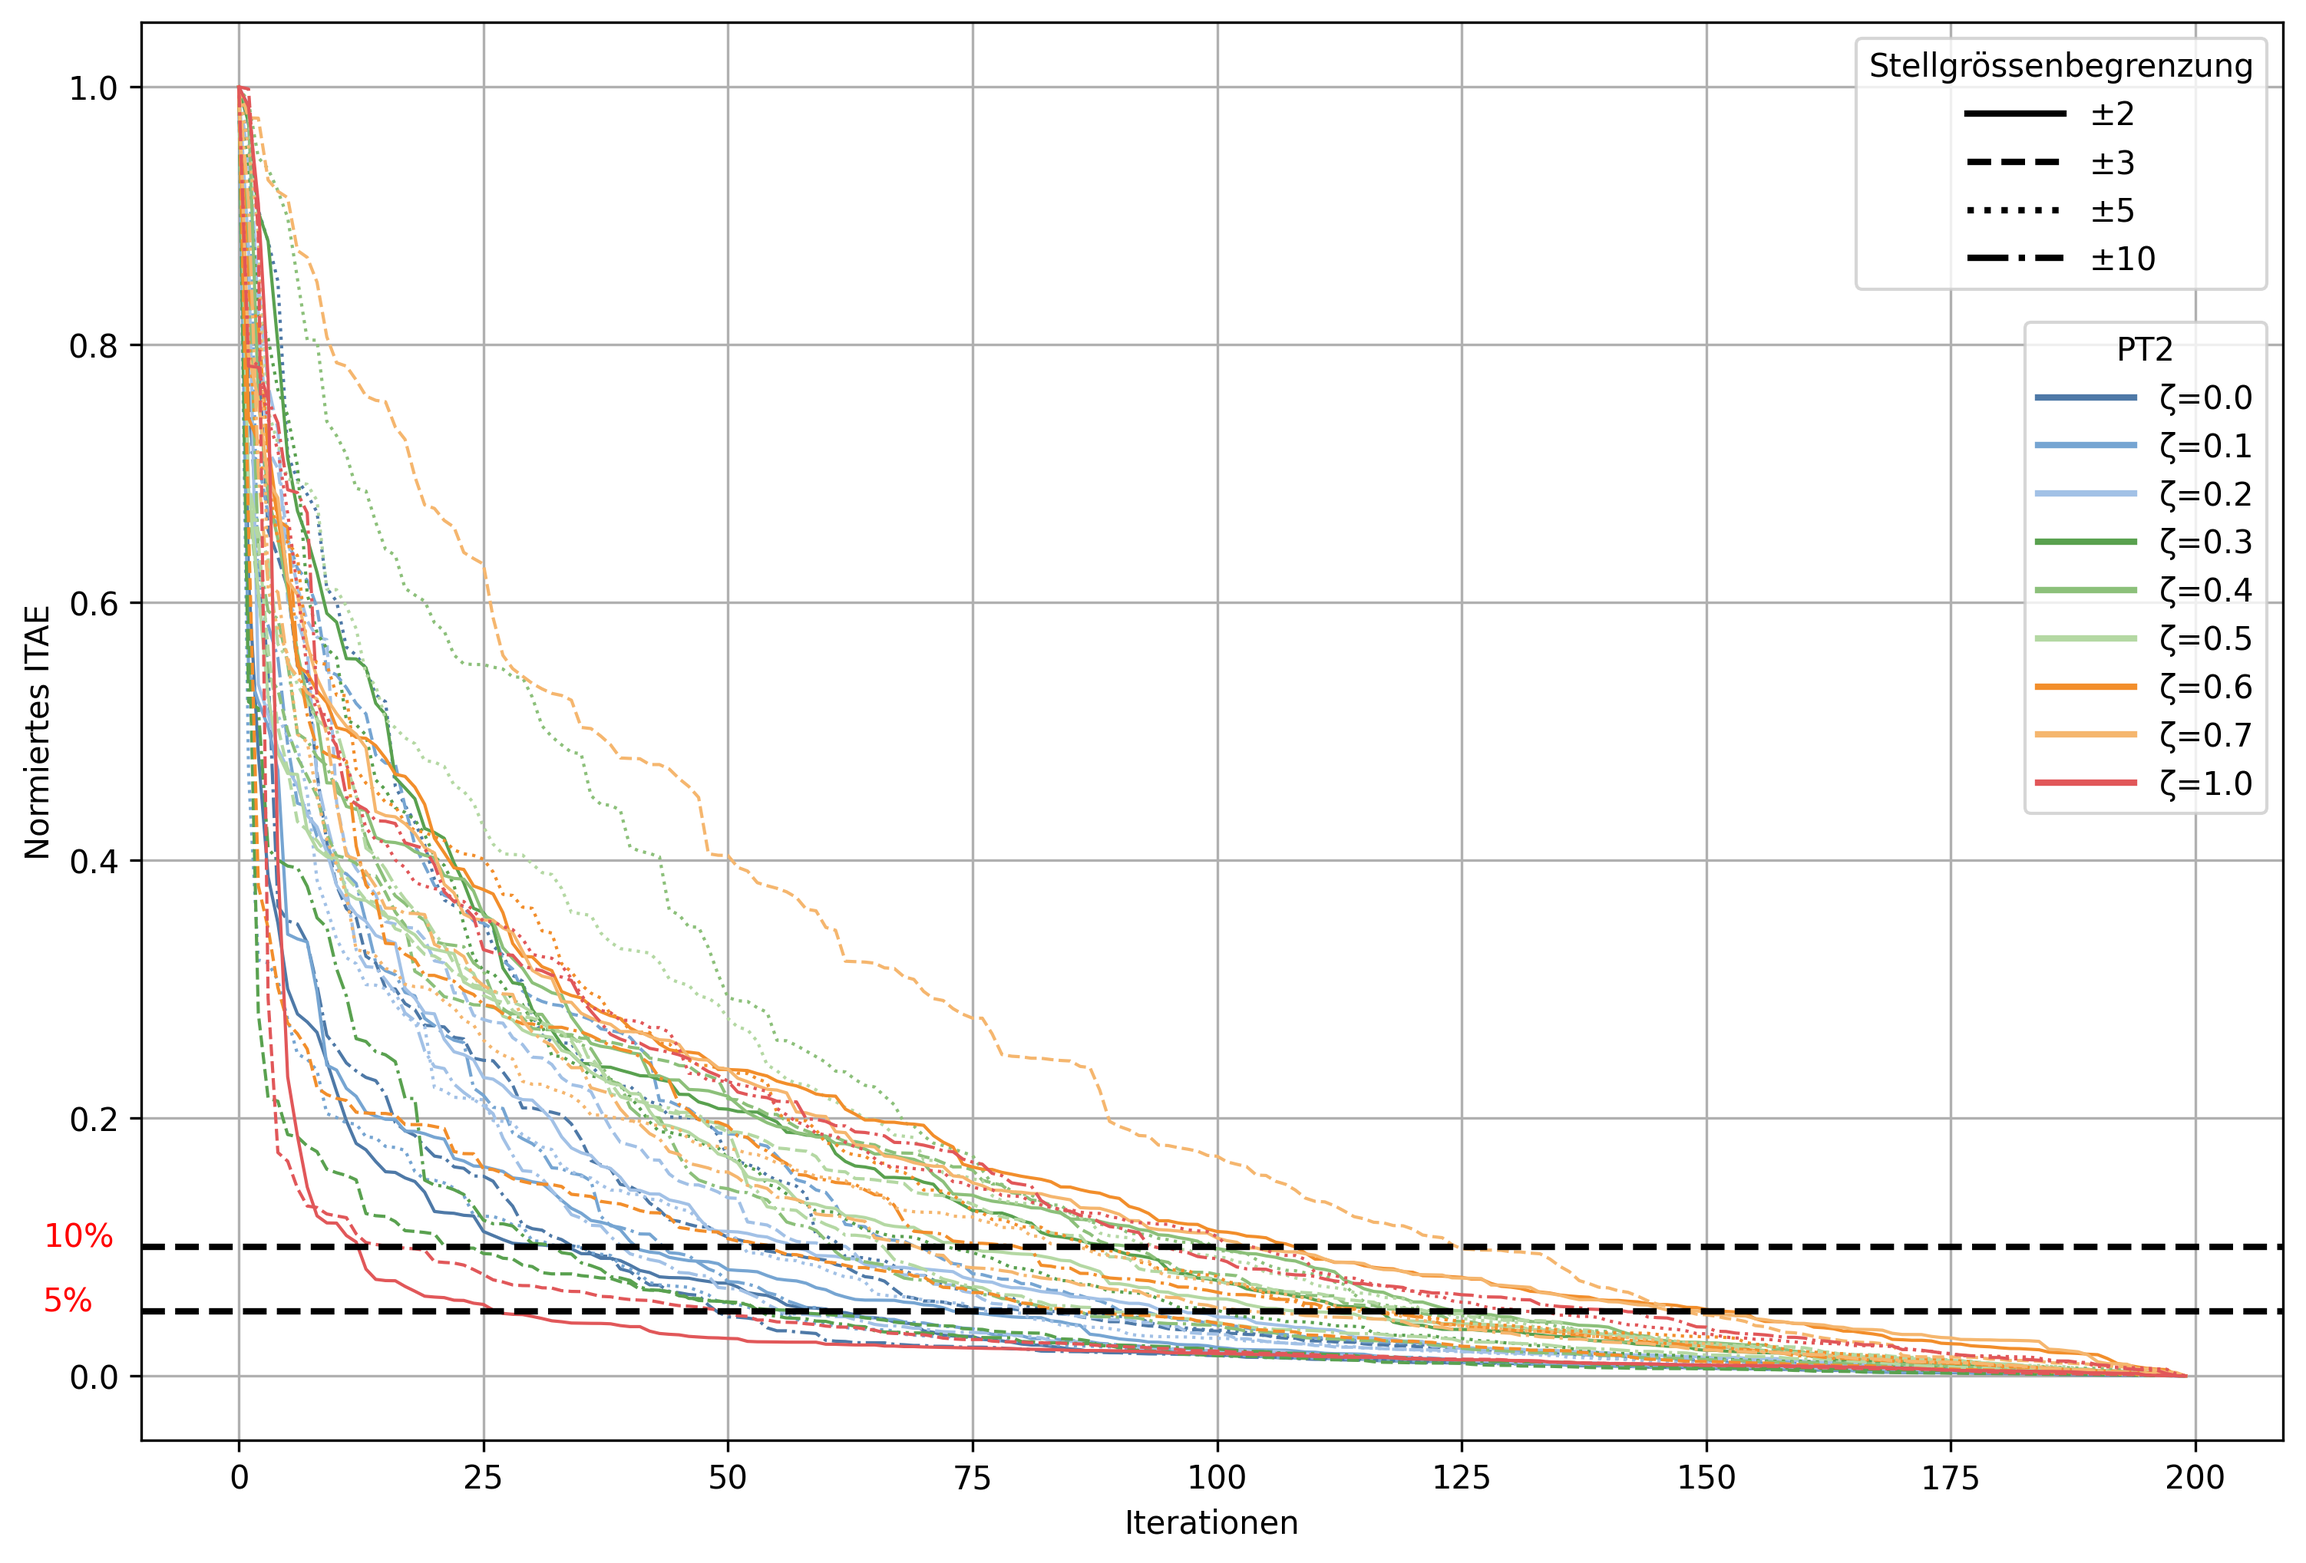
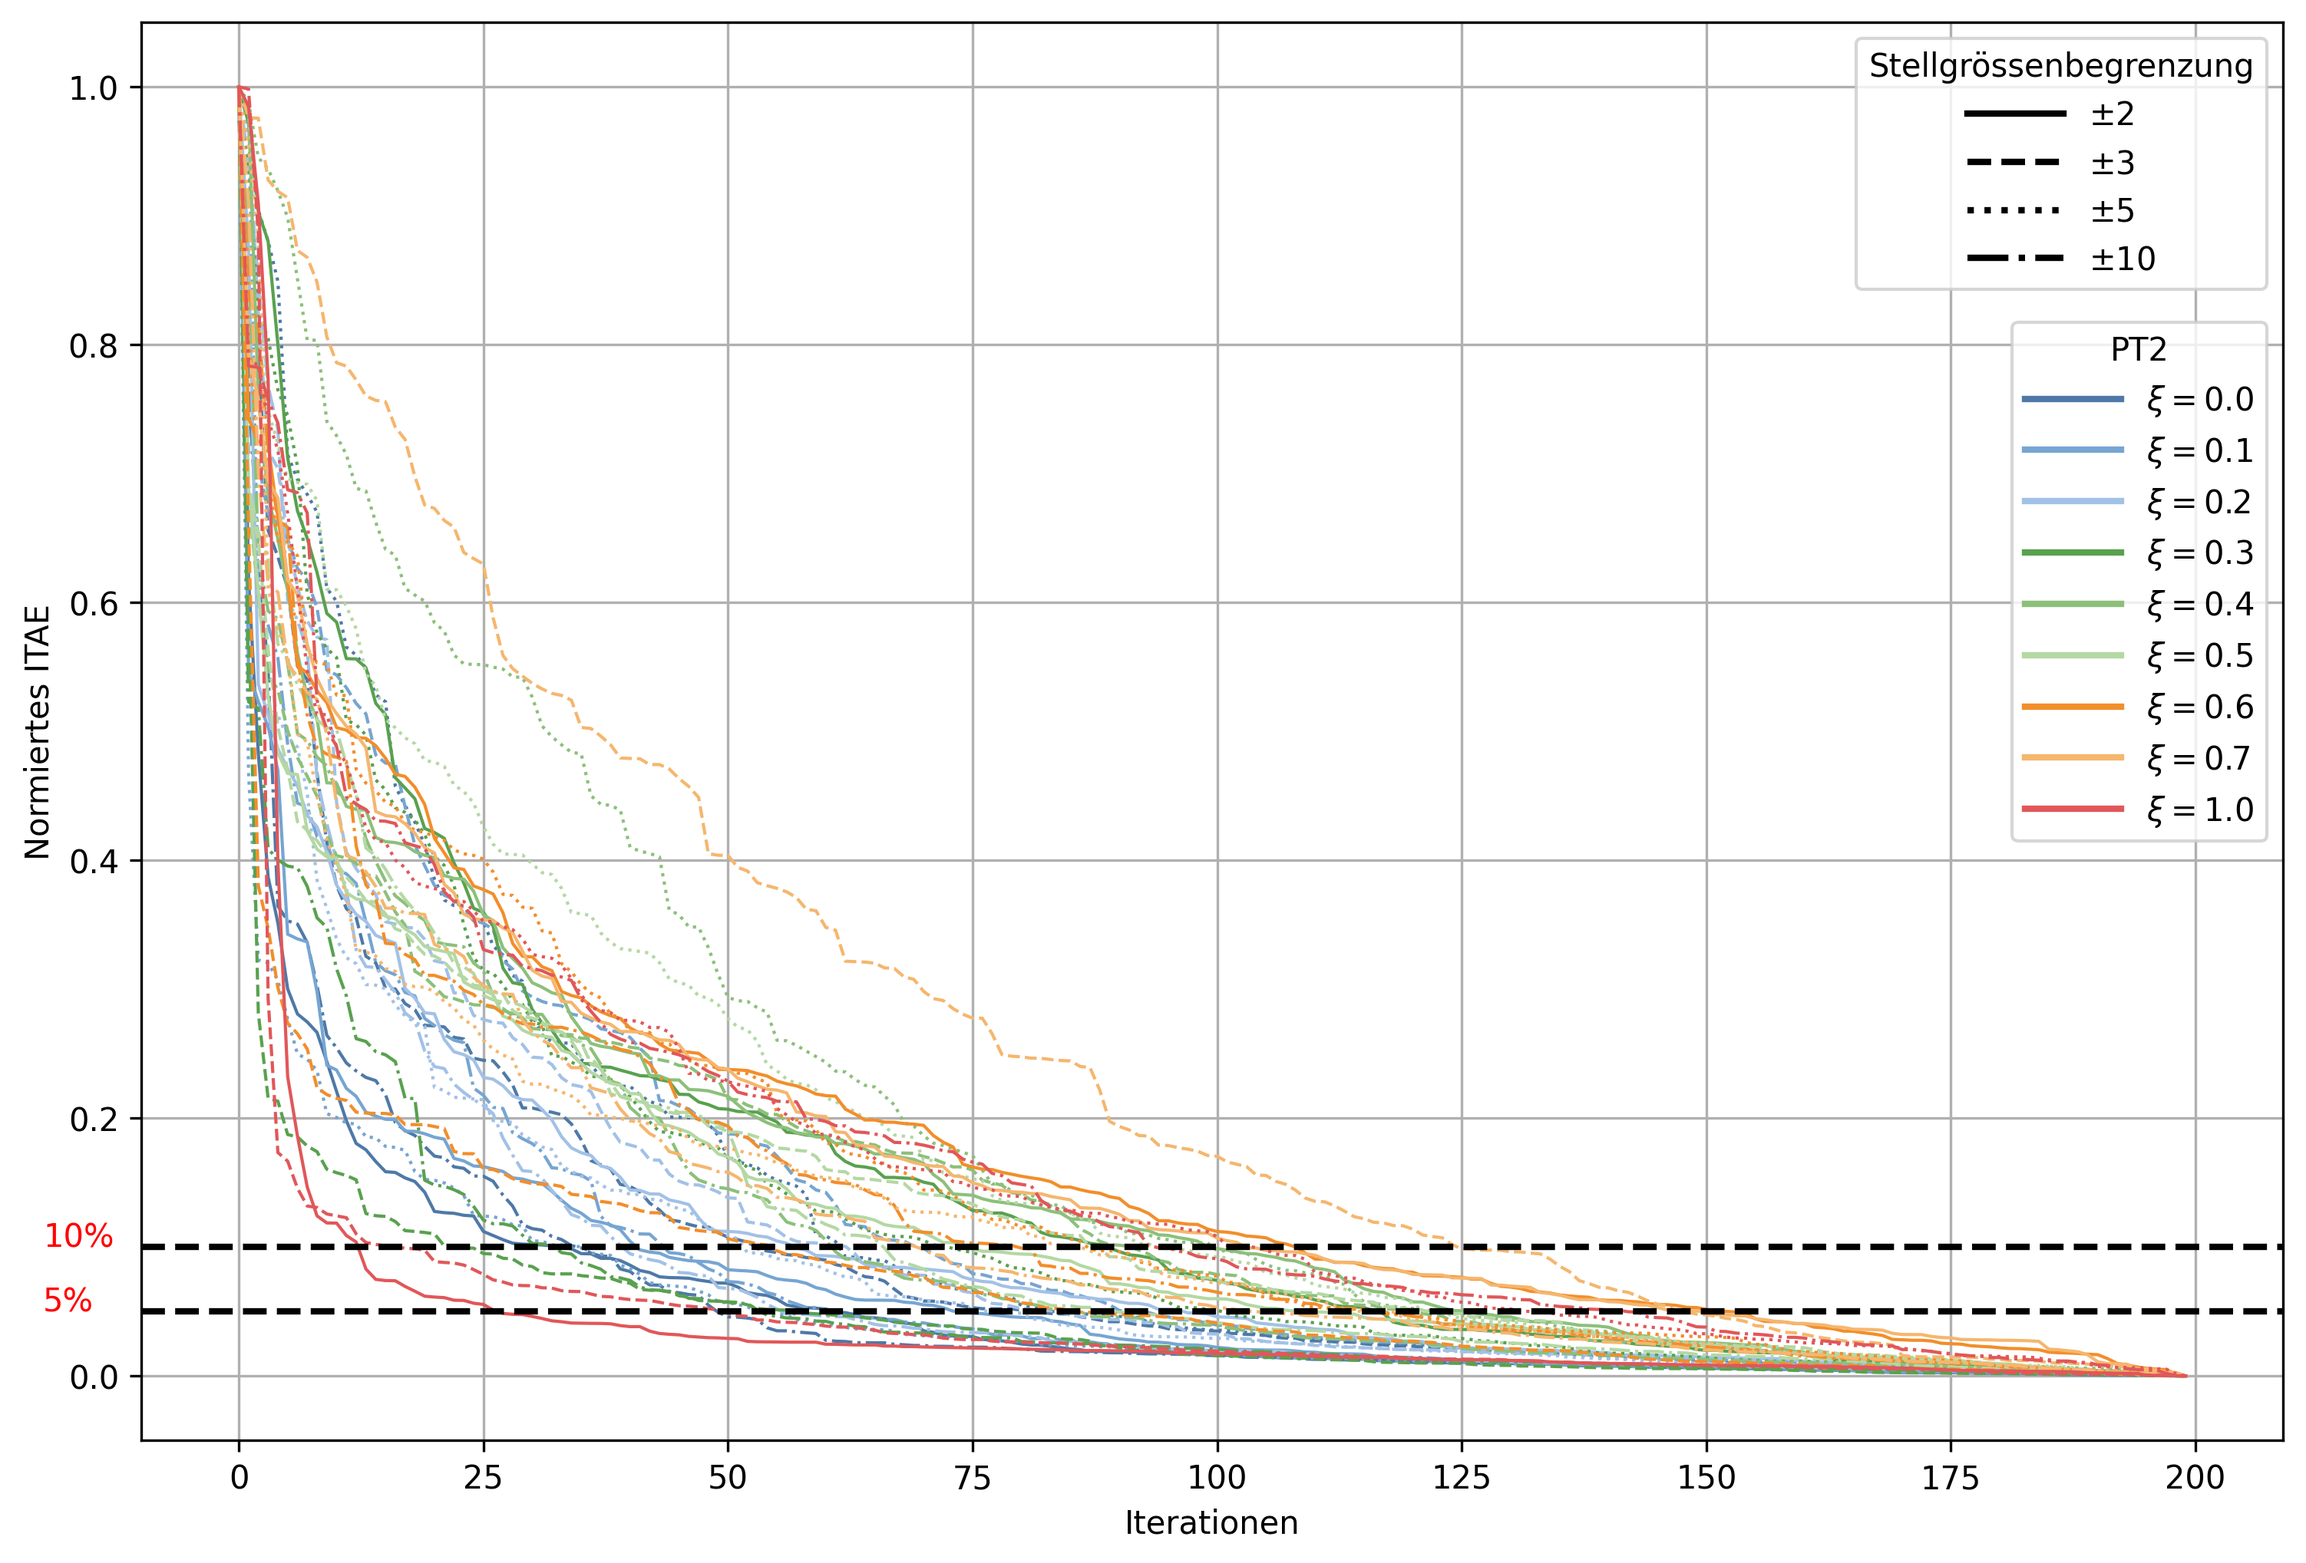
Aktion zeta durch xi ersetzen

Changed region(s): [[0.8668, 0.2165, 0.9907, 0.5258]]

diff --git a/src/verification/pso_iteration/post_pso_iteration.py b/src/verification/pso_iteration/post_pso_iteration.py
@@ -19,7 +19,7 @@ color_ptn = {
 }
 
 
-# Harmonische Farbskala für PT2-Systeme (zeta)
+# Harmonische Farbskala für PT2-Systeme (xi)
 color_pt2 = {
     0.0:  '#4e79a7',
     0.1:  '#76a5d2',
@@ -43,11 +43,11 @@ def load_data_ptn():
 
 
 def load_data_pt2():
-    zetas = [0, 0.1, 0.2, 0.3, 0.4, 0.5, 0.6, 0.7, 1]
+    xis = [0, 0.1, 0.2, 0.3, 0.4, 0.5, 0.6, 0.7, 1]
     constrains = [2, 3, 5, 10]
     data = {}
-    for z in zetas:
-        data[z] = {c: np.load(f"pso_iteration_pt2_zeta{z}_{c}.npy") for c in constrains}
+    for z in xis:
+        data[z] = {c: np.load(f"pso_iteration_pt2_xi{z}_{c}.npy") for c in constrains}
     return data
 
 
@@ -88,14 +88,14 @@ def plot_ptn(data_ptn):
 
 def plot_pt2(data_pt2):
     plt.figure(figsize=(12, 8))
-    for zeta, constrains_dict in data_pt2.items():
+    for xi, constrains_dict in data_pt2.items():
         for constr, runs in constrains_dict.items():
             runs_sorted = np.sort(runs[:, 0])[::-1]
             data_norm = minmax(runs_sorted)
-            plt.plot(data_norm, linestyle=line_layout[constr], color=color_pt2[zeta], linewidth=1)
+            plt.plot(data_norm, linestyle=line_layout[constr], color=color_pt2[xi], linewidth=1)
 
-    # Legende PT2 zeta
-    pt2_handler = [Line2D([0], [0], color=c, lw=2, label=f"ζ={z}") for z, c in color_pt2.items()]
+    # Legende PT2 xi
+    pt2_handler = [Line2D([0], [0], color=c, lw=2, label=rf"$\xi={z}$") for z, c in color_pt2.items()]
     constrain_handler = [Line2D([0], [0], color="black", linestyle=ls, lw=2, label=r"$\pm$" + str(name))
                          for name, ls in line_layout.items()]
 

diff --git a/src/verification/pso_iteration/pso_iteration.py b/src/verification/pso_iteration/pso_iteration.py
@@ -27,7 +27,7 @@ def main():
     r = lambda t: np.ones_like(t)
 
     # PT2-Dämpfungen
-    zetas = [0, 0.1, 0.2, 0.3, 0.4, 0.5, 0.6, 0.7, 1]
+    xis = [0, 0.1, 0.2, 0.3, 0.4, 0.5, 0.6, 0.7, 1]
     # ====================
     # PTn-Systeme
     # ====================
@@ -62,10 +62,10 @@ def main():
     # ====================
     # PT2-Systeme
     # ====================
-    for zeta in zetas:
+    for xi in xis:
         for constrain in constrains:
-            # PT2-Übertragungsfunktion: 1 / (s^2 + 2*zeta*s + 1)
-            plant = Plant([1], [1, 2*zeta, 1])
+            # PT2-Übertragungsfunktion: 1 / (s^2 + 2*xi*s + 1)
+            plant = Plant([1], [1, 2*xi, 1])
             pid = PIDClosedLoop(
                 plant,
                 Kp=10, Ti=3, Td=0.8, Tf=0.1,
@@ -81,7 +81,7 @@ def main():
             )
 
             performance_index = []
-            for _ in tqdm(range(pso_iteration), f"PT2: {zeta=}, {constrain=}"):
+            for _ in tqdm(range(pso_iteration), f"PT2: {xi=}, {constrain=}"):
                 swarm = Swarm(obj_func, swarm_size, 3, bounds)
                 start_time = time()
                 param, performance_idx = swarm.simulate_swarm()
@@ -89,7 +89,7 @@ def main():
                 performance_index.append([performance_idx, *param, end_time - start_time])
 
             performance_index = np.array(performance_index)
-            np.save(f"pso_iteration_pt2_zeta{zeta}_{constrain}", performance_index)
+            np.save(f"pso_iteration_pt2_xi{xi}_{constrain}", performance_index)
 
 
 if __name__ == '__main__':
